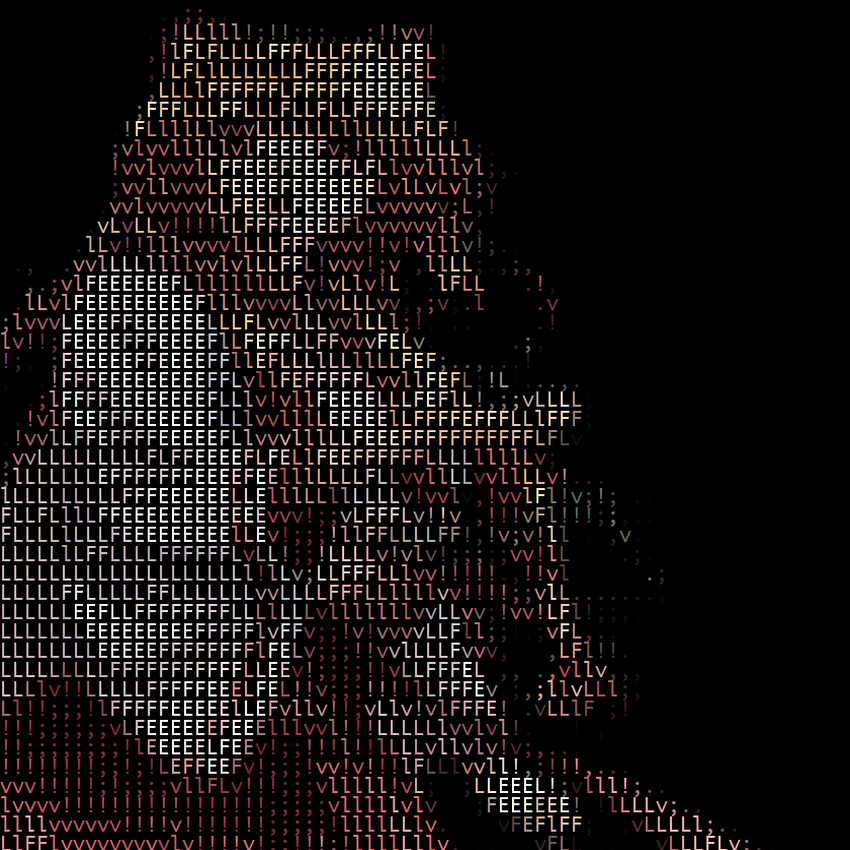
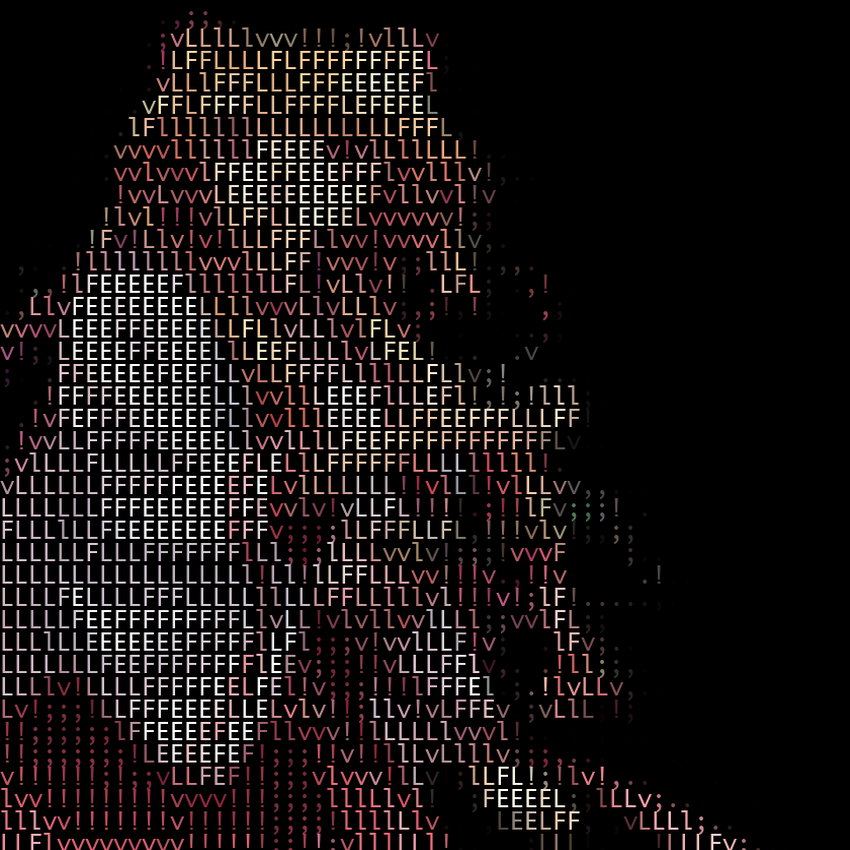
chore: fix ascify

Changed region(s): [[0.0, 0.0, 0.8871, 1.0], [0.6118, 0.3059, 0.6729, 0.3976], [0.6118, 0.3976, 0.6424, 0.4282]]

diff --git a/main.py b/main.py
@@ -10,6 +10,7 @@ import subprocess
 from pathlib import Path
 import tkinter as tk
 from tkinter import filedialog
+from PIL import Image
 
 
 def format_time_ago(dt: datetime) -> str:
@@ -436,7 +437,21 @@ class SettingsPanel(VerticalScroll):
                 if not file_path:
                     return
                 
-                # Run asciifer
+                # # Crop image to small square from top-left corner
+                # cropped_path = "temp_cropped.png"
+                # try:
+                #     img = Image.open(file_path)
+                #     # Monaco terminal cell aspect ~ 1(w) : 1.25(h)
+                #     crop_w = img.width
+                #     crop_h = min(int(crop_w / 1.25), img.height)
+                #     cropped = img.crop((0, 0, crop_w, crop_h))
+                #     cropped.save(cropped_path)
+                #     self.app.notify(f"Cropped to {crop_w}x{crop_h}", severity="information")
+                # except Exception as e:
+                #     self.app.notify(f"Crop failed: {e}", severity="error")
+                #     return
+                
+                # Run asciifer on cropped image
                 script_path = Path("asciifer/asciifer.py")
                 
                 if not script_path.exists():
@@ -454,8 +469,8 @@ class SettingsPanel(VerticalScroll):
                     "--output-text", output_text,
                     "--output-image", output_image,
                     "--font", font_path,
-                    "--font-size", "20",
-                    file_path
+                    "--font-size", "24",
+                    file_path  # Use cropped image instead of original
                 ]
                 
                 result = subprocess.run(cmd, capture_output=True, text=True)
@@ -465,8 +480,17 @@ class SettingsPanel(VerticalScroll):
                 
                 # Read the generated ASCII art
                 if Path(output_text).exists():
-                    with open(output_text, "r") as file:
-                        ascii_art = file.read()
+                    with open(output_text, "r") as f:
+                        lines = f.read().splitlines()
+
+                    # Keep consistent width (characters per line)
+                    max_width = max((len(line) for line in lines), default=0)
+
+                    max_lines = int(max_width / 2)
+
+                    lines = lines[:max_lines]
+
+                    ascii_art = "\n".join(lines)
                     
                     # Update the settings model (persist the change)
                     settings = api.get_user_settings()
@@ -482,7 +506,6 @@ class SettingsPanel(VerticalScroll):
                         self.app.notify(f"Widget not found: {e}", severity="error")
                 else:
                     self.app.notify("Output file not generated", severity="error")
-                
             except Exception as e:
                 pass
 
@@ -671,7 +694,6 @@ class Proj101App(App):
                 event.prevent_default()
             except:
                 pass
-
 
 if __name__ == "__main__":
     app = Proj101App()

diff --git a/api_interface.py b/api_interface.py
@@ -68,7 +68,7 @@ class FakeAPI(APIInterface):
             followers=891,
             following=328,
             posts_count=142,
-            avatar_ascii="[@#$&●*]"
+            avatar_ascii=""
         )
         self._init_fake_data()
     

diff --git a/PROJECT_DESCRIPTION.md b/PROJECT_DESCRIPTION.md
@@ -1,0 +1,190 @@
+# Tuitter - Terminal-Based Social Network
+
+## Inspiration
+Twitter + LazyGit = Tuitter
+
+We love the efficiency of terminal user interfaces like LazyGit and the social connectivity of Twitter. We asked ourselves: what if we could bring the best of both worlds together? What if you could engage with your social network using vim keybindings, without ever leaving your terminal? That's how Tuitter was born - a vim-style social network that makes social media feel like home for developers.
+
+## What it does
+
+Tuitter is a fully-functional terminal user interface (TUI) social network that brings the familiar social media experience into your terminal with vim-style navigation. Built with Python and Textual, it offers:
+
+- **Timeline** - View posts from people you follow with real-time updates
+- **Discover** - Explore trending posts with live search filtering by content, author, or tags
+- **Messages** - Direct messaging with conversation threads and chat bubbles
+- **Notifications** - Activity feed showing likes, reposts, mentions, and new followers
+- **Settings** - Profile management with ASCII art profile pictures, OAuth connections, and preferences
+- **Vim-style navigation** - Navigate entirely with keyboard shortcuts (1-5 for screens, i for insert mode, Esc for normal mode)
+- **Web-serveable** - Can run in terminal OR be served as a web application using Textual Web
+
+Key features:
+- 🚀 Real-time search filtering in Discover feed
+- 💬 Multi-conversation messaging system
+- 🎨 ASCII art profile pictures generated from images using our integrated asciifer tool
+- ⚡ Reactive UI that updates instantly
+- 🔌 Backend-ready architecture with clean API abstraction layer
+- 🌐 Deployable to web with a single command
+
+## How we built it
+
+**Technology Stack:**
+- **Frontend**: Textual (Python framework for TUIs)
+- **Backend**: AWS Lambda + API Gateway (serverless architecture)
+- **Storage**: AWS S3 for media and profile pictures
+- **Language**: Python 3.12+
+- **Web Serving**: Textual Web for browser access
+- **File Handling**: tkinter for image uploads
+- **Image Processing**: asciifer (submodule) for ASCII art conversion
+
+**Architecture:**
+
+We built Tuitter with a modern, scalable serverless architecture:
+
+1. **Frontend/TUI Layer** (`main.py`)
+   - Custom widgets for each component (PostItem, ChatMessage, NotificationItem, etc.)
+   - Screen-based architecture (Timeline, Discover, Notifications, Messages, Settings)
+   - Reactive components that update in real-time
+   - Event handlers for user interactions
+
+2. **Data Layer** (`data_models.py`)
+   - Dataclasses for User, Post, Message, Conversation, Notification, and UserSettings
+   - Type-safe data structures that mirror real social network entities
+
+3. **API Interface** (`api_interface.py`)
+   - Abstract base class `APIInterface` defining all backend operations
+   - `FakeAPI` implementation with realistic mock data for development
+   - Designed to connect to AWS API Gateway endpoints
+   - Easy to swap mock data with real serverless API calls
+
+4. **Backend (AWS Serverless)**
+   - **AWS Lambda** - Serverless functions for all API endpoints (timeline, messages, notifications)
+   - **API Gateway** - RESTful API with JWT authentication
+   - **AWS S3** - Storage for uploaded images, ASCII art, and media files
+   - **DynamoDB** (planned) - NoSQL database for posts, messages, and user data
+   - **CloudFront** (planned) - CDN for fast media delivery
+
+5. **Styling** (`main.tcss`)
+   - Textual CSS for theming and layout
+   - Vim-inspired dark theme
+   - Responsive layouts with proper spacing and visual hierarchy
+
+**Key Technical Decisions:**
+
+- **Serverless Architecture**: Chose AWS Lambda for infinite scalability and zero server management
+- **S3 for Storage**: Leveraged S3 for cost-effective, durable storage of ASCII art and images
+- **API Gateway**: RESTful API design with proper HTTP methods and status codes
+- **Reactive Programming**: Used Textual's reactive attributes and watchers for live updates (e.g., search filtering)
+- **Component Reusability**: Created generic widgets (NavigationItem, PostItem) used across screens
+- **Lazy Loading**: Posts and messages load on-demand when screens mount
+- **State Management**: Centralized state in the main App class with screen switching logic
+- **Error Handling**: Comprehensive try-except blocks with user-friendly notifications
+
+## Challenges we ran into
+
+1. **Screen Switching Without Async**
+   - Initially faced `DuplicateIds` errors when switching between screens
+   - Solved by using `call_after_refresh()` to ensure old widgets are removed before mounting new ones
+
+2. **Live Search Filtering**
+   - First attempt using `recompose()` caused the input to lose focus on every keystroke
+   - Fixed by implementing a `watch_query_text()` method that only updates the posts container, not the entire feed
+
+3. **Font File Handling**
+   - asciifer required specific font paths that didn't exist on all systems
+   - Solved by pointing to system fonts (`/System/Library/Fonts/Monaco.ttf`) that exist on every macOS installation
+
+4. **Chat Message Alignment**
+   - Getting sent/received messages to properly align left/right while maintaining responsive width
+   - Fixed using Textual CSS's `align` property and careful margin/padding tuning
+
+5. **Data Persistence with S3**
+   - Ensuring uploaded ASCII profile pictures persist when switching screens
+   - Implemented S3 upload pipeline for storing profile pictures
+   - Integrated AWS SDK for seamless serverless backend communication
+
+6. **Serverless Cold Starts**
+   - Lambda functions can have cold start latency
+   - Mitigated with proper loading states and optimized function packaging
+
+## Accomplishments that we're proud of
+
+- ✨ **Beautiful, Functional UI** - Created a polished TUI that rivals modern web apps in user experience
+- 🎮 **Vim Keybindings** - Natural navigation for vim users with consistent keyboard shortcuts
+- 🔍 **Real-time Search** - Implemented live filtering that updates as you type without losing focus
+- 🎨 **ASCII Art Integration** - Seamlessly integrated image-to-ASCII conversion for profile pictures
+- 🏗 **Production-Ready Architecture** - Built with a clean separation that makes backend integration trivial
+- 📱 **Responsive Design** - Adapts to different terminal sizes with proper scrolling
+- ⚡ **Performance** - Instant screen switching and smooth interactions despite complex layouts
+
+## What we learned
+
+- **Textual Framework Mastery**: Deep dive into reactive programming, event handling, and custom widget creation
+- **TUI Design Patterns**: How to translate web UI/UX patterns into terminal interfaces effectively
+- **State Management in TUIs**: Managing complex application state across multiple screens without traditional routing
+- **Async Considerations**: When to use async vs sync in Textual, and how to handle blocking operations
+- **CSS-like Styling for Terminals**: Translating traditional CSS concepts to Textual's CSS system
+- **Developer Experience**: The importance of vim-style shortcuts for power users
+- **Clean Architecture**: How abstraction layers make replacing mock data with real APIs seamless
+
+## What's next for Tuitter
+
+**Short-term:**
+- 🔐 **Real Backend Integration** - Connect to a FastAPI/Flask backend with PostgreSQL
+- 🔒 **Authentication** - JWT-based auth with OAuth providers (GitHub, GitLab, Google, Discord)
+- 📤 **Post Creation** - Implement the `:n` new post command with a compose dialog
+- ❤ **Interactions** - Like, repost, and comment functionality with real-time updates
+- 🔔 **Live Notifications** - WebSocket integration for instant notification delivery
+- 🔍 **Advanced Search** - Full-text search with filters (tags, users, date ranges)
+
+**Medium-term:**
+- 📊 **Analytics Dashboard** - View your post performance and follower growth
+- 🧵 **Thread Support** - Create and view threaded conversations
+- 📎 **Media Attachments** - Share images and files in posts/messages
+- 🎨 **Theme Customization** - Multiple color schemes and user-customizable themes
+- 🌍 **i18n Support** - Internationalization for multiple languages
+- 🔌 **Plugin System** - Allow community-built extensions and custom widgets
+
+**Long-term:**
+- 🤖 **AI Integration** - Smart replies, content summarization, and trending topic detection
+- 📱 **Mobile Companion** - Native mobile app that syncs with the TUI
+- 🎥 **Video/Audio Support** - ASCII video playback and audio message visualization
+- 🌐 **Federation** - ActivityPub support to connect with Mastodon and other federated networks
+- 🏢 **Enterprise Features** - Teams, organizations, and private instances
+- 🎓 **Community Features** - Groups, events, and collaborative spaces
+
+**Vision:**
+Transform Tuitter into the go-to social platform for developers and terminal enthusiasts. A place where you can engage with your community, share code and ideas, and stay connected - all from the comfort of your terminal. We believe social media doesn't need to be bloated web apps; it can be fast, efficient, and beautiful right in your terminal.
+
+---
+
+## Tech Stack Summary
+- **Frontend**: Python + Textual Framework
+- **Backend**: AWS Lambda (serverless functions)
+- **API**: AWS API Gateway (RESTful endpoints)
+- **Storage**: AWS S3 (images, ASCII art, media)
+- **Database**: DynamoDB (planned for production)
+- **Deployment**: AWS SAM/Serverless Framework + Textual Web
+- **Real-time**: API Gateway WebSockets (planned)
+- **Auth**: AWS Cognito + JWT + OAuth2
+- **CDN**: CloudFront (planned for media delivery)
+
+## Try it yourself!
+
+```bash
+git clone --recurse-submodules https://github.com/DH-GM/proj101.git
+cd proj101
+python3 -m venv venv
+source venv/bin/activate
+pip install -r requirements.txt
+python3 main.py
+```
+
+**Or run on web:**
+```bash
+textual-web --config serve.toml
+```
+
+---
+
+Built with ❤ for the terminal-loving community
+
